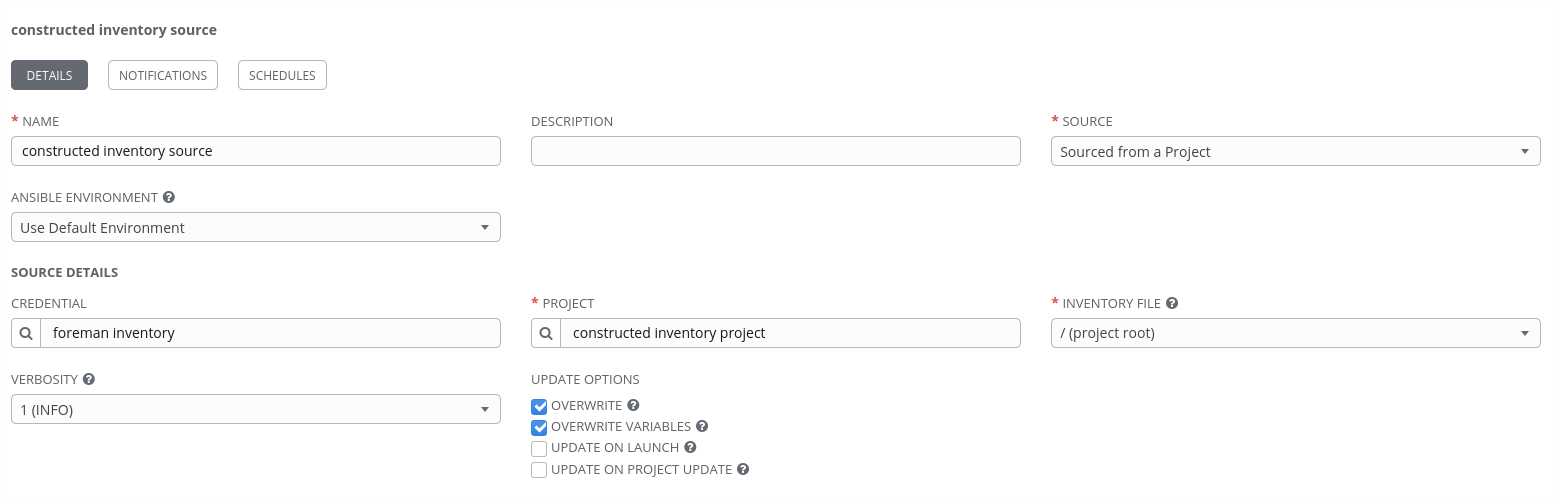
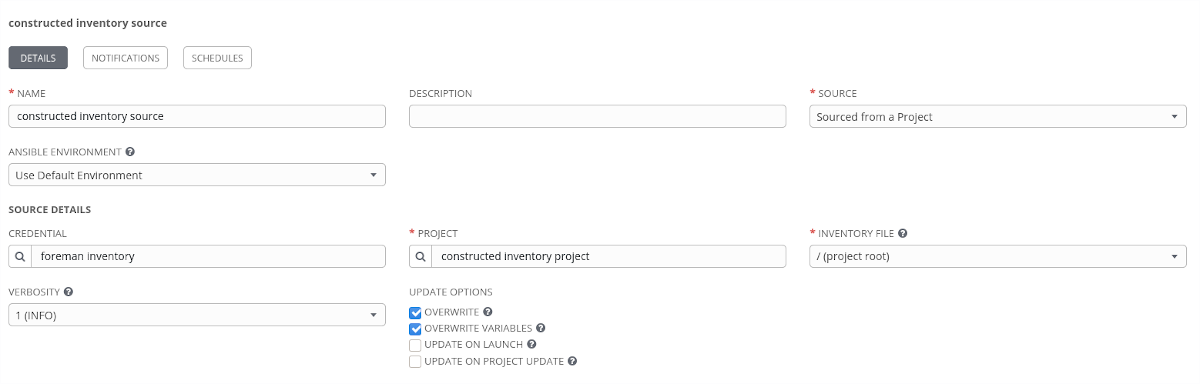
fix image sizes

diff --git a/docs/post/ansible-constructed-inventory-plugin/index.html b/docs/post/ansible-constructed-inventory-plugin/index.html
@@ -71,10 +71,10 @@
 
 <p>In it&rsquo;s simplest form, an inventory is just an INI or YAML file which contains a list of our managed nodes. This is ideal when getting started with Ansible, but as you start to really use Ansible in anger and at scale you will probably face a couple of questions.</p>
 
-<ul>
+<ol>
 <li>How do I classify my infrastructure so that I can be more selective in what devices I automate against?</li>
 <li>How do I effectively and efficiently maintain a list of all of my managed nodes?</li>
-</ul>
+</ol>
 
 <p>The answer to both of these questions, can quite often be to use a <a href="https://docs.ansible.com/ansible/latest/user_guide/intro_dynamic_inventory.html">dynamic inventory</a>. A dynamic inventory is a script or plugin which will go to a source of truth and discover the nodes I need to manage. It will also automatically classify the nodes by putting them into groups which can be used to more selectively target devices when automating with Ansible. There are a number of sources that Ansible can talk to out of the box such as VMware vCenter, AWS, GCP, Azure or Red Hat Satellite (Foreman upstream). There are also community inventory scripts such this the <a href="https://github.com/ServiceNowITOM/ansible-sn-inventory">ServiceNow CMDB</a> script.  And finally, you can <a href="https://docs.ansible.com/ansible/latest/dev_guide/developing_inventory.html">develop your own</a> dynamic inventory. The benefit to me as a user of Ansible is quite clear. I now no longer need to maintain a list of managed nodes. As I add or remove managed nodes, the dynamic inventory will continue to provide me with an up to date list.</p>
 
@@ -304,7 +304,7 @@ required:
 
 <p>Then we can add an inventory source to the inventory. Ensure to add the correct credential that we created earlier.</p>
 
-<p><img src="/images/constructed-tower-inventory.png" alt="" /></p>
+<p><img src="/images/constructed-tower-inventory-source.png" alt="" /></p>
 
 <p>Once the inventory source has finished syncing, we should see that the relevant hosts have been imported with the constructed groups and composed variables.</p>
 
@@ -315,6 +315,12 @@ required:
 <p>The constructed inventory plugin can be really useful for manipulating the information returned from existing dynamic inventory plugins and scripts. This example used a plugin but the constructed inventory plugin works in the same way with inventory scripts. It is worth noting that some inventory plugins provide in-built capabilities to construct variables and generate groups. Check the <a href="https://docs.ansible.com/ansible/latest/plugins/inventory.html#plugin-list">inventory plugins</a> before deciding if you need to also use the constructed inventory plugin.</p>
 </p>
           <p>16 Jan 2020
+            
+              
+                <a href="https://cloudautomation2.pharriso.co.uk/tags/ansible/">#ansible</a>
+              
+                <a href="https://cloudautomation2.pharriso.co.uk/tags/tower/">#tower</a>
+              
             
           </p>
           

diff --git a/docs/post/tower-enabled-hosts/index.html b/docs/post/tower-enabled-hosts/index.html
@@ -75,7 +75,7 @@
 
 <p>Looking at RHV (Upstream name is oVirt), we can see:</p>
 
-<pre><code># ---------------------
+<pre><code class="language-bash"># ---------------------
 # ----- oVirt4 -----
 # ---------------------
 RHV_ENABLED_VAR = 'status'
@@ -84,7 +84,7 @@ RHV_ENABLED_VALUE = 'up'
 
 <p>And for VMware:</p>
 
-<pre><code># Inventory variable name/values for determining whether a host is
+<pre><code class="language-bash"># Inventory variable name/values for determining whether a host is
 # active in vSphere.
 VMWARE_ENABLED_VAR = 'guest.gueststate'
 VMWARE_ENABLED_VALUE = 'running'
@@ -94,14 +94,13 @@ VMWARE_ENABLED_VALUE = 'running'
 
 <p>Now that we have seen the default settings and know the variable names, we can override the default behaviour. The easiest way to do this is to create a custom configuration file in /etc/tower/conf.d and override the variable value. For example, to enable all VM&rsquo;s regardless of power status you could create the following file and set the RHV_ENABLED_VALUE to be empty:</p>
 
-<pre><code># cat /etc/tower/conf.d/custom.py 
+<pre><code class="language-bash">$ cat /etc/tower/conf.d/custom.py 
+RHV_ENABLED_VALUE = ''
 </code></pre>
-
-<p>RHV_ENABLED_VALUE = &ldquo;</p>
 
 <p>After creating this configuration file, restart the tower services:</p>
 
-<pre><code># ansible-tower-service
+<pre><code>$ sudo ansible-tower-service
 </code></pre>
 
 <p>Now when we sync the inventory we can now see that all of the hosts are enabled regardless of power state:</p>

diff --git a/docs/tags/ansible/index.html b/docs/tags/ansible/index.html
@@ -80,6 +80,28 @@ Why do we get this behaviour? In the case of Red Hat Virtualisation you can prob
     </div>
   </div>
 
+  
+  <div class="col m4 s12">
+    <div class="card-panel">
+      <h4><a href="https://cloudautomation2.pharriso.co.uk/post/ansible-constructed-inventory-plugin/">Ansible Constructed Inventory Plugin</a></h4>
+      <p>
+       
+      </p>
+      <p>In this blog post we will look at how we can easily enrich an existing dynamic inventory using the constructed inventory plugin. But, before we do that, let&rsquo;s take a step back.
+Ansible is simple automation tool that allows users to achieve common use cases such as configuration management, provisioning and complex multi-tier orchestration. Part of what makes Ansible so simple, is the fact that it is agentless. One doesn&rsquo;t need to deploy agents or any heavyweight control software to get up and running with Ansible automation.</p>
+      <p>
+      16 Jan 2020
+      
+        
+          <a href="https://cloudautomation2.pharriso.co.uk/tags/ansible/">#ansible</a>
+        
+          <a href="https://cloudautomation2.pharriso.co.uk/tags/tower/">#tower</a>
+        
+       
+      </p>
+    </div>
+  </div>
+
 </div>
 
 

diff --git a/docs/tags/tower/index.html b/docs/tags/tower/index.html
@@ -80,6 +80,28 @@ Why do we get this behaviour? In the case of Red Hat Virtualisation you can prob
     </div>
   </div>
 
+  
+  <div class="col m4 s12">
+    <div class="card-panel">
+      <h4><a href="https://cloudautomation2.pharriso.co.uk/post/ansible-constructed-inventory-plugin/">Ansible Constructed Inventory Plugin</a></h4>
+      <p>
+       
+      </p>
+      <p>In this blog post we will look at how we can easily enrich an existing dynamic inventory using the constructed inventory plugin. But, before we do that, let&rsquo;s take a step back.
+Ansible is simple automation tool that allows users to achieve common use cases such as configuration management, provisioning and complex multi-tier orchestration. Part of what makes Ansible so simple, is the fact that it is agentless. One doesn&rsquo;t need to deploy agents or any heavyweight control software to get up and running with Ansible automation.</p>
+      <p>
+      16 Jan 2020
+      
+        
+          <a href="https://cloudautomation2.pharriso.co.uk/tags/ansible/">#ansible</a>
+        
+          <a href="https://cloudautomation2.pharriso.co.uk/tags/tower/">#tower</a>
+        
+       
+      </p>
+    </div>
+  </div>
+
 </div>
 
 

diff --git a/docs/tags/index.html b/docs/tags/index.html
@@ -59,9 +59,9 @@
 
     <div class="collection">
       
-        <a href="https://cloudautomation2.pharriso.co.uk/tags/ansible" class="collection-item"><i class="mdi-action-loyalty left"></i>ansible<div class="secondary-content">1</div></a>
+        <a href="https://cloudautomation2.pharriso.co.uk/tags/ansible" class="collection-item"><i class="mdi-action-loyalty left"></i>ansible<div class="secondary-content">2</div></a>
       
-        <a href="https://cloudautomation2.pharriso.co.uk/tags/tower" class="collection-item"><i class="mdi-action-loyalty left"></i>tower<div class="secondary-content">1</div></a>
+        <a href="https://cloudautomation2.pharriso.co.uk/tags/tower" class="collection-item"><i class="mdi-action-loyalty left"></i>tower<div class="secondary-content">2</div></a>
       
     </div>
 

diff --git a/docs/index.html b/docs/index.html
@@ -92,6 +92,12 @@ Why do we get this behaviour? In the case of Red Hat Virtualisation you can prob
 Ansible is simple automation tool that allows users to achieve common use cases such as configuration management, provisioning and complex multi-tier orchestration. Part of what makes Ansible so simple, is the fact that it is agentless. One doesn&rsquo;t need to deploy agents or any heavyweight control software to get up and running with Ansible automation.</p>
       <p>
       16 Jan 2020
+      
+        
+          <a href="https://cloudautomation2.pharriso.co.uk/tags/ansible/">#ansible</a>
+        
+          <a href="https://cloudautomation2.pharriso.co.uk/tags/tower/">#tower</a>
+        
        
       </p>
     </div>

diff --git a/docs/post/index.html b/docs/post/index.html
@@ -91,6 +91,12 @@ Why do we get this behaviour? In the case of Red Hat Virtualisation you can prob
 Ansible is simple automation tool that allows users to achieve common use cases such as configuration management, provisioning and complex multi-tier orchestration. Part of what makes Ansible so simple, is the fact that it is agentless. One doesn&rsquo;t need to deploy agents or any heavyweight control software to get up and running with Ansible automation.</p>
       <p>
       16 Jan 2020
+      
+        
+          <a href="https://cloudautomation2.pharriso.co.uk/tags/ansible/">#ansible</a>
+        
+          <a href="https://cloudautomation2.pharriso.co.uk/tags/tower/">#tower</a>
+        
        
       </p>
     </div>

diff --git a/content/post/tower-enabled-hosts.md b/content/post/tower-enabled-hosts.md
@@ -15,29 +15,37 @@ To see how Tower determines if a node is enabled or disabled, you can take a loo
 
 Looking at RHV (Upstream name is oVirt), we can see:
 
-    # ---------------------
-    # ----- oVirt4 -----
-    # ---------------------
-    RHV_ENABLED_VAR = 'status'
-    RHV_ENABLED_VALUE = 'up'
+```bash
+# ---------------------
+# ----- oVirt4 -----
+# ---------------------
+RHV_ENABLED_VAR = 'status'
+RHV_ENABLED_VALUE = 'up'
+```
 
 And for VMware:
 
-    # Inventory variable name/values for determining whether a host is
-    # active in vSphere.
-    VMWARE_ENABLED_VAR = 'guest.gueststate'
-    VMWARE_ENABLED_VALUE = 'running'
+```bash
+# Inventory variable name/values for determining whether a host is
+# active in vSphere.
+VMWARE_ENABLED_VAR = 'guest.gueststate'
+VMWARE_ENABLED_VALUE = 'running'
+```
 
 ## Changing the default behaviour
 
 Now that we have seen the default settings and know the variable names, we can override the default behaviour. The easiest way to do this is to create a custom configuration file in /etc/tower/conf.d and override the variable value. For example, to enable all VM's regardless of power status you could create the following file and set the RHV_ENABLED_VALUE to be empty:
 
-    # cat /etc/tower/conf.d/custom.py 
-   RHV_ENABLED_VALUE = ''
+```bash
+$ cat /etc/tower/conf.d/custom.py 
+RHV_ENABLED_VALUE = ''
+```
 
 After creating this configuration file, restart the tower services:
 
-    # ansible-tower-service
+```
+$ sudo ansible-tower-service
+```
 
 Now when we sync the inventory we can now see that all of the hosts are enabled regardless of power state:
 

diff --git a/content/post/ansible-constructed-inventory-plugin.md b/content/post/ansible-constructed-inventory-plugin.md
@@ -2,6 +2,7 @@
 title: "Ansible Constructed Inventory Plugin"
 date: 2020-01-16T09:40:51+01:00
 draft: false
+tags: [ansible, tower]
 ---
 
 In this blog post we will look at how we can easily enrich an existing dynamic inventory using the constructed inventory plugin. But, before we do that, let's take a step back.
@@ -11,8 +12,8 @@ Ansible is simple automation tool that allows users to achieve common use cases 
 In it's simplest form, an inventory is just an INI or YAML file which contains a list of our managed nodes. This is ideal when getting started with Ansible, but as you start to really use Ansible in anger and at scale you will probably face a couple of questions.
 
 
-* How do I classify my infrastructure so that I can be more selective in what devices I automate against?
-* How do I effectively and efficiently maintain a list of all of my managed nodes?
+1. How do I classify my infrastructure so that I can be more selective in what devices I automate against?
+2. How do I effectively and efficiently maintain a list of all of my managed nodes?
 
 
 
@@ -255,7 +256,7 @@ Next we need to create an inventory:
 
 Then we can add an inventory source to the inventory. Ensure to add the correct credential that we created earlier.
 
-![](/images/constructed-tower-inventory.png)
+![](/images/constructed-tower-inventory-source.png)
 
 Once the inventory source has finished syncing, we should see that the relevant hosts have been imported with the constructed groups and composed variables.
 
